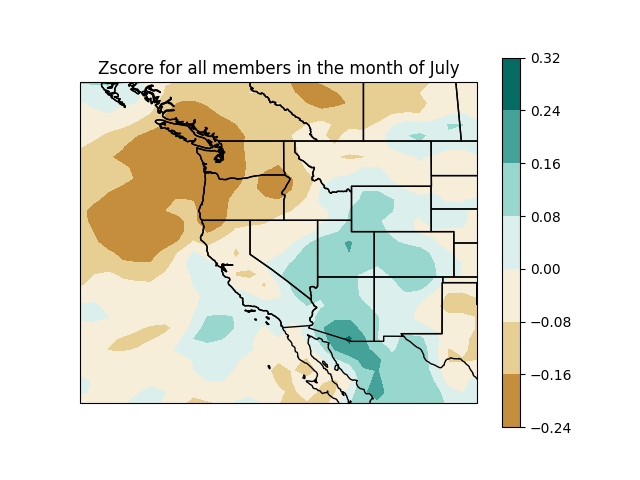
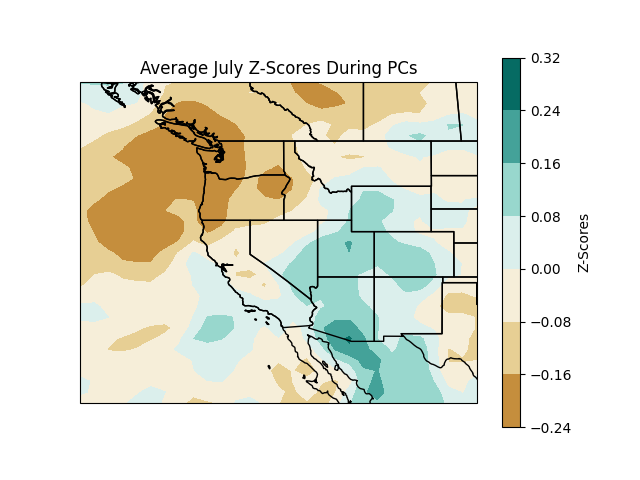
updating labels

Changed region(s): [[0.1562, 0.125, 0.7188, 0.1562], [0.9062, 0.4375, 0.9375, 0.5625]]

diff --git a/Precipitation Scripts/difference_plots.py b/Precipitation Scripts/difference_plots.py
@@ -23,39 +23,17 @@ modified = prect * pc_months['is_phase_change']
 
 # Group by month and average across months and members to get and ensemble mean for both phase change
 # and non phase change precipitation.
-pc_precip = ensembleMean.ensMean(modified)
-#print(pc_precip)
-total_precip = ensembleMean.ensMean(prect)
-#print(total_precip)
-
-"""
 grouped = modified.groupby('time.month')
 pc_precip = grouped.mean(dim = ['members', 'time'])
-"""
 
-pvalues = ttest.ttest(pc_precip, total_precip, 0.05)
 
 # Get the average precip across months for ALL months, including non-phase change months.
 all_precip = pcp.pcpAvg(filenames)
 
 # Get the difference between average precip for phase change months and average precip for ALL months.
 difference = pc_precip - all_precip
-#print(difference)
-
 annual = pcp.interval(difference, months = np.arange(0, 12))
 
 # Plot the average annual difference.
+pcp.prettyColors(annual, title = 'Average Annual PC Precipitation Anomaly', cmap = 'BrBG', save = '/Users/dfencekey/Desktop/Coding/Capstone/Capstone-PDO-Precip-Data-Analysis/Plots/Annual_DifferencePrecip.png', vmin = -75, vmax = 75, clabel = 'Anomaly (mm)')
 
-pcp.prettyColors(annual, title = 'Average Annual PC Precipitation Anomaly (mm)', cmap = 'BrBG', save = '/Users/dfencekey/Desktop/Coding/Capstone/Capstone-PDO-Precip-Data-Analysis/Plots/Annual_DifferencePrecip.png', vmin = -75, vmax = 75)
-
-# X, Y = np.meshgrid(annual.lon, annual.lat)
-# fig, ax = plt.subplots(nrows = 1, ncols = 1, subplot_kw = {'projection': ccrs.PlateCarree()})
-# ax.coastlines()
-
-# my_ax = ax.contourf(X, Y, annual, transform = ccrs.PlateCarree(), cmap = 'BrBG', vmin = -75, 
-# vmax = 75)
-# ax.add_feature(cfeature.STATES, zorder=1, linewidth=1, edgecolor='k')
-# ax.set_title('Average Annual PC Precipitation Anomaly (mm)')
-# fig.colorbar(my_ax, ax = ax)
-  
-# plt.savefig('/Users/dfencekey/Desktop/Coding/Capstone/Capstone-PDO-Precip-Data-Analysis/Plots/Annual_DifferencePrecip.png')

diff --git a/Precipitation Scripts/monthly_zscore_plots.py b/Precipitation Scripts/monthly_zscore_plots.py
@@ -60,7 +60,7 @@ for month in grouped['month']:
     month_name = months.get(month_dict_value)
     
     #Plot the selected month
-    title = "Zscore for all members in the month of " + str(month_name)
-    pcp.prettyColors(selected_by_month, title, cmap = 'BrBG', save = "/Users/dfencekey/Desktop/Coding/Capstone/Capstone-PDO-Precip-Data-Analysis/Plots/"+month_name+'_zscore.png', vmin = -0.36, vmax = 0.36)
+    title = "Average " + str(month_name) + " Z-Scores During PCs"
+    pcp.prettyColors(selected_by_month, title, cmap = 'BrBG', save = "/Users/dfencekey/Desktop/Coding/Capstone/Capstone-PDO-Precip-Data-Analysis/Plots/"+month_name+'_zscore.png', vmin = -0.36, vmax = 0.36, clabel = 'Z-Scores')
 
     

diff --git a/Precipitation Scripts/precipAvg_interval.py b/Precipitation Scripts/precipAvg_interval.py
@@ -42,6 +42,6 @@ def prettyColors(data, title, cmap, save, **kwargs):
     my_ax = ax.contourf(X, Y, data, transform = ccrs.PlateCarree(), cmap = cmap, vmin = kwargs.get('vmin'), vmax = kwargs.get('vmax'))
     ax.add_feature(cfeature.STATES, zorder=1, linewidth=1, edgecolor='k')
     ax.set_title(title)
-    fig.colorbar(my_ax, ax = ax)
-  
+    fig.colorbar(my_ax, ax = ax).set_label(kwargs.get('clabel'))
+
     plt.savefig(save)
